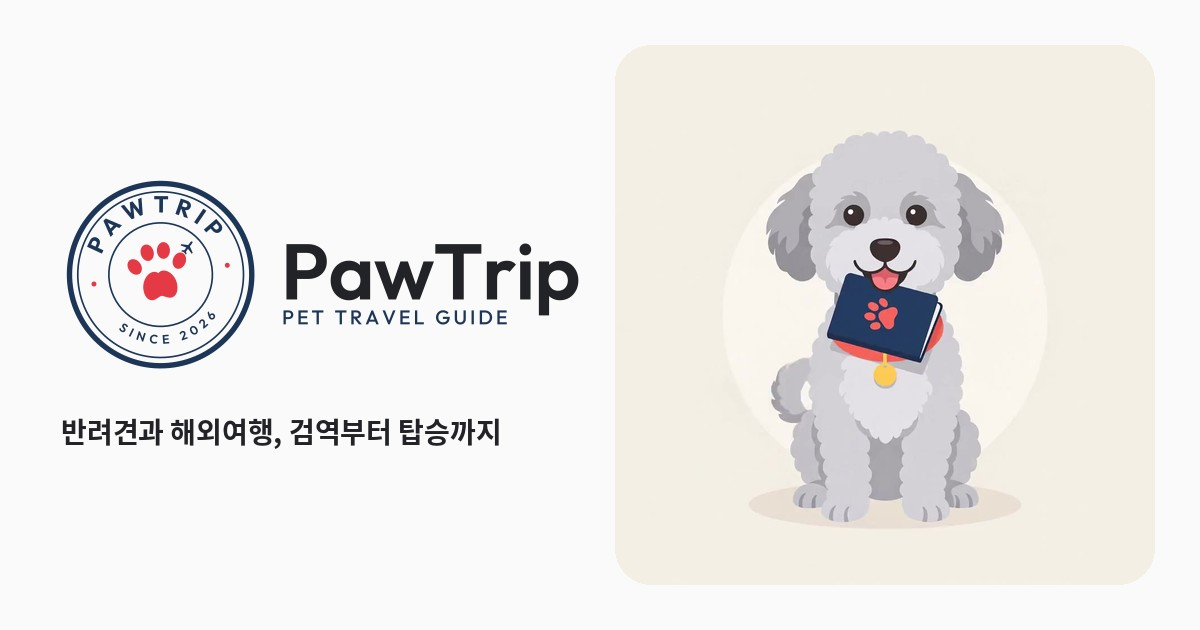
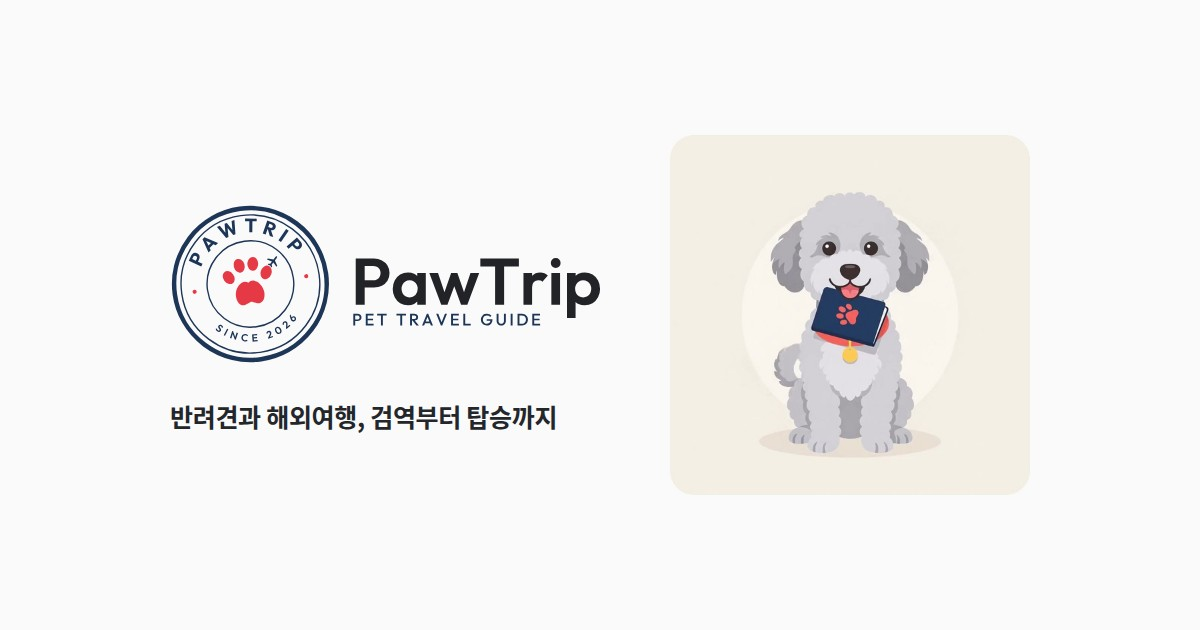
링크 미리보기 이미지 여백 조정: 네이버 등 좌우 잘림 대비, 핵심 요소를 가운데 860px 안으로 이동 + 캐시 갱신용 ?v=2
Claude-Session: https://claude.ai/code/session_01UgpUg8QD86dCmjFTZ4VsSV

Changed region(s): [[0.6167, 0.2111, 0.8633, 0.8444], [0.0308, 0.2714, 0.5242, 0.6032], [0.0308, 0.6333, 0.4625, 0.7238]]

diff --git a/index.html b/index.html
@@ -10,7 +10,7 @@
 <meta property="og:title" content="PawTrip · 반려견과 해외여행 준비">
 <meta property="og:description" content="국가별 입국 검역, 항공사 탑승 규정, 출국일 역산 일정을 한 곳에서.">
 <meta property="og:locale" content="ko_KR">
-<meta property="og:image" content="https://pawtrip.us/media/og.jpg">
+<meta property="og:image" content="https://pawtrip.us/media/og.jpg?v=2">
 <meta property="og:image:width" content="1200">
 <meta property="og:image:height" content="630">
 <meta property="og:url" content="https://pawtrip.us/">
